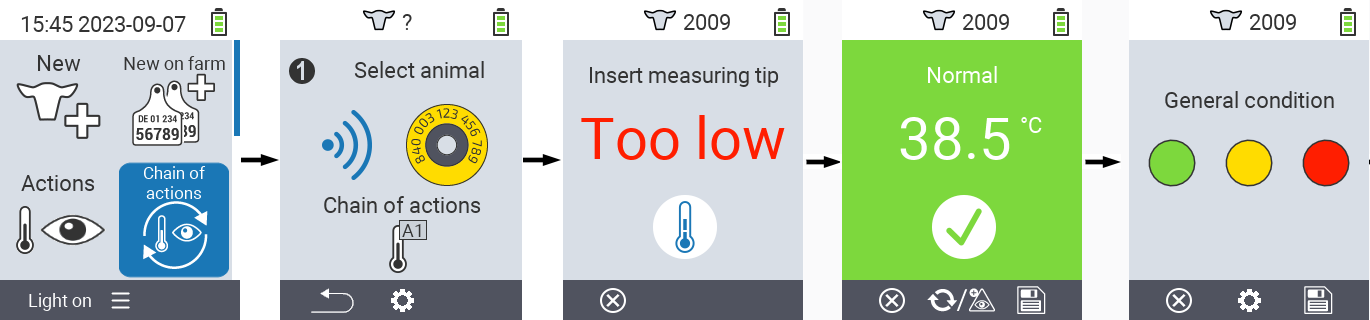
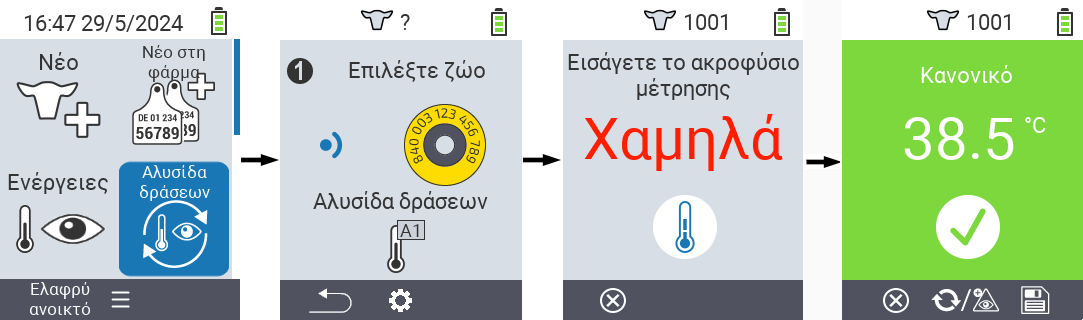
Chain of actions: localization of images and strings used in firmware

diff --git a/content/el/docs/chain-of-actions/_index.md b/content/el/docs/chain-of-actions/_index.md
@@ -13,13 +13,13 @@ translationKey: action-chain
 ---
 ## Αλυσίδα ενεργειών {#chain-of-actions}
 
-Η αλυσίδα ενεργειών σας επιτρέπει να εκτελέσετε αυτόματα πολλές ενέργειες για ένα ζώο, η μία μετά την άλλη. Για παράδειγμα, μπορείτε να επιλέξετε τις ενέργειες `Μέτρηση θερμοκρασίας` και `Αξιολόγηση`. Εάν στη συνέχεια εκτελέσετε την αλυσίδα ενεργειών, μπορείτε πρώτα να πάρετε τη θερμοκρασία του ζώου σας και αμέσως μετά να καταγράψετε την αξιολόγηση.
+Η αλυσίδα ενεργειών σας επιτρέπει να εκτελέσετε αυτόματα πολλές ενέργειες για ένα ζώο, η μία μετά την άλλη. Για παράδειγμα, μπορείτε να επιλέξετε τις ενέργειες `{{<T "Temperature" >}}` και `{{<T "Rating" >}}`. Εάν στη συνέχεια εκτελέσετε την αλυσίδα ενεργειών, μπορείτε πρώτα να πάρετε τη θερμοκρασία του ζώου σας και αμέσως μετά να καταγράψετε την αξιολόγηση.
 
 ### Χρήση αλυσίδας ενεργειών {#use-chain-of-actions}
 
-1. Στην κύρια οθόνη της συσκευής σας VitalControl, επιλέξτε το στοιχείο μενού &nbsp;<img src="/icons/actions/action-chain.svg" width="35" align="bottom" alt="Αλυσίδα ενεργειών" />&nbsp; `Αλυσίδα ενεργειών` και πατήστε το κουμπί `OK`.
+1. Στην κύρια οθόνη της συσκευής σας VitalControl, επιλέξτε το στοιχείο μενού &nbsp;<img src="/icons/actions/action-chain.svg" width="35" align="bottom" alt="Αλυσίδα ενεργειών" />&nbsp; `{{<T "ActionChain" >}}` και πατήστε το κουμπί `{{<T "Ok" >}}`.
 
-2. Είτε σαρώστε ένα ζώο χρησιμοποιώντας τον ανιχνευτή ή επιβεβαιώστε με `OK` και χρησιμοποιήστε τα πλήκτρα βέλους △ ▽ ◁ ▷ για να εισάγετε το επιθυμητό αναγνωριστικό του ζώου.
+2. Είτε σαρώστε ένα ζώο χρησιμοποιώντας τον ανιχνευτή ή επιβεβαιώστε με `{{<T "Ok" >}}` και χρησιμοποιήστε τα πλήκτρα βέλους △ ▽ ◁ ▷ για να εισάγετε το επιθυμητό αναγνωριστικό του ζώου.
 
 3. Η αλυσίδα ενεργειών τώρα εκτελείται. Μόλις όλες οι ενέργειες στην αλυσίδα ενεργειών έχουν πραγματοποιηθεί, το επόμενο ζώο μπορεί να επιλεγεί απευθείας.
 
@@ -35,13 +35,13 @@ translationKey: action-chain
 
 ### Ρύθμιση αλυσίδας ενεργειών {#set-chain-of-actions}
 
-1. Στην κύρια οθόνη της συσκευής σας VitalControl, επιλέξτε το στοιχείο μενού &nbsp;<img src="/icons/actions/action-chain.svg" width="35" align="bottom" alt="Αλυσίδα ενεργειών" />&nbsp; `Αλυσίδα Ενεργειών` και πατήστε το κουμπί `OK`.
+1. Στην κύρια οθόνη της συσκευής σας VitalControl, επιλέξτε το στοιχείο μενού &nbsp;<img src="/icons/actions/action-chain.svg" width="35" align="bottom" alt="Αλυσίδα ενεργειών" />&nbsp; `{{<T "ActionChain" >}}` και πατήστε το κουμπί `{{<T "Ok" >}}`.
 
-2. Χρησιμοποιήστε το κουμπί `F2` &nbsp;<img src="/icons/gear.svg" width="25" align="bottom" alt="Αλυσίδα ενεργειών" />&nbsp; (`ρυθμίσεις`).
+2. Χρησιμοποιήστε το κουμπί `F2` &nbsp;<img src="/icons/gear.svg" width="25" align="bottom" alt="Αλυσίδα ενεργειών" />&nbsp; (`{{<T "Settings" >}}`).
 
 3. Ένας επικαλυπτόμενος οθόνη εμφανίζεται. Χρησιμοποιήστε τα πλήκτρα βέλους △ ▽ για να επιλέξετε ανάμεσα στις ενέργειες 1 - 4 (μπορείτε να εκτελέσετε έως τέσσερις ενέργειες σε σειρά). Χρησιμοποιήστε τα πλήκτρα βέλους ◁ ▷ για να επιλέξετε την επιθυμητή ενέργεια για την αντίστοιχη ενέργεια. Αποθηκεύστε τις ρυθμίσεις με το κλειδί `F1` &nbsp;<img src="/icons/footer/save_exit.svg" width="65" align="bottom" alt="Αποθήκευση και επιστροφή" />&nbsp;.
 
-4. Εάν θέλετε να επαναφέρετε ολόκληρη την αλυσίδα ενεργειών, επιλέξτε την επιλογή `Reset chain of actions` στο υπομενού χρησιμοποιώντας τα βελάκια △ ▽ και επιβεβαιώστε με `OK`.
+4. Εάν θέλετε να επαναφέρετε ολόκληρη την αλυσίδα ενεργειών, επιλέξτε την επιλογή `{{<T "ResetActionChain" >}}` στο υπομενού χρησιμοποιώντας τα βελάκια △ ▽ και επιβεβαιώστε με `{{<T "Ok" >}}`.
 
     ![VitalControl: Menu chain of actions](images/setchainofactions.png "Set chain of actions")
 

diff --git a/content/bg/docs/chain-of-actions/_index.md b/content/bg/docs/chain-of-actions/_index.md
@@ -13,13 +13,13 @@ translationKey: action-chain
 ---
 ## Поредица от действия {#chain-of-actions}
 
-Поредицата от действия ви позволява автоматично да извършите няколко действия за едно животно едно след друго. Например, можете да изберете действията `Измерване на температурата` и `Оценка`. Ако след това изпълните поредицата от действия, първо можете да вземете температурата на животното и веднага след това да запишете оценката.
+Поредицата от действия ви позволява автоматично да извършите няколко действия за едно животно едно след друго. Например, можете да изберете действията `{{<T "Temperature" >}}` и `{{<T "Rating" >}}`. Ако след това изпълните поредицата от действия, първо можете да вземете температурата на животното и веднага след това да запишете оценката.
 
 ### Използване на поредица от действия {#use-chain-of-actions}
 
-1. На главния екран на вашето устройство VitalControl изберете менюто &nbsp;<img src="/icons/actions/action-chain.svg" width="35" align="bottom" alt="Поредица от действия" />&nbsp; `Поредица от действия` и натиснете бутона `OK`.
+1. На главния екран на вашето устройство VitalControl изберете менюто &nbsp;<img src="/icons/actions/action-chain.svg" width="35" align="bottom" alt="Поредица от действия" />&nbsp; `{{<T "ActionChain" >}}` и натиснете бутона `{{<T "Ok" >}}`.
 
-2. Сканирайте животно с помощта на транспондера или потвърдете с `OK` и използвайте стрелките △ ▽ ◁ ▷ за въвеждане на желания идентификационен номер на животното.
+2. Сканирайте животно с помощта на транспондера или потвърдете с `{{<T "Ok" >}}` и използвайте стрелките △ ▽ ◁ ▷ за въвеждане на желания идентификационен номер на животното.
 
 3. Поредицата от действия се изпълнява. Щом всички действия в поредицата от действия бъдат извършени, може директно да изберете следващото животно.
 
@@ -35,13 +35,13 @@ translationKey: action-chain
 
 ### Настройка на поредица от действия {#set-chain-of-actions}
 
-1. На главния екран на вашето устройство VitalControl изберете менюто &nbsp;<img src="/icons/actions/action-chain.svg" width="35" align="bottom" alt="Поредица от действия" />&nbsp; `Поредица от действия` и натиснете бутона `OK`.
+1. На главния екран на вашето устройство VitalControl изберете менюто &nbsp;<img src="/icons/actions/action-chain.svg" width="35" align="bottom" alt="Поредица от действия" />&nbsp; `{{<T "ActionChain" >}}` и натиснете бутона `{{<T "Ok" >}}`.
 
-2. Използвайте бутона `F2` &nbsp;<img src="/icons/gear.svg" width="25" align="bottom" alt="Настройки на поредицата" />&nbsp; (`настройки`).
+2. Използвайте бутона `F2` &nbsp;<img src="/icons/gear.svg" width="25" align="bottom" alt="Настройки на поредицата" />&nbsp; (`{{<T "Settings" >}}`).
 
 3. Появява се екран за настройки. Използвайте стрелките △ ▽ за избор между изброените действия 1 - 4 (можете да изпълните до четири действия последователно). Използвайте стрелките ◁ ▷ за избор на желаното действие за съответното действие. Запазете настройките с бутона `F1` &nbsp;<img src="/icons/footer/save_exit.svg" width="65" align="bottom" alt="Запази и излез" />&nbsp;.
 
-4. Ако искате да рестартирате цялата верига от действия, изберете опцията `Reset chain of actions` в подменюто, като използвате стрелките △ ▽ и потвърдете с `OK`.
+4. Ако искате да рестартирате цялата верига от действия, изберете опцията `{{<T "ResetActionChain" >}}` в подменюто, като използвате стрелките △ ▽ и потвърдете с `{{<T "Ok" >}}`.
 
     ![VitalControl: Menu chain of actions](images/setchainofactions.png "Set chain of actions")
 

diff --git a/content/ru/docs/chain-of-actions/_index.md b/content/ru/docs/chain-of-actions/_index.md
@@ -13,13 +13,13 @@ translationKey: action-chain
 ---
 ## Цепочка действий {#chain-of-actions}
 
-Цепочка действий позволяет автоматически выполнять несколько действий с животным одно за другим. Например, вы можете выбрать действия `Измерение температуры` и `Оценка`. Если затем выполнить цепочку действий, вы сначала можете измерить температуру животного, а сразу после этого записать оценку.
+Цепочка действий позволяет автоматически выполнять несколько действий с животным одно за другим. Например, вы можете выбрать действия `{{<T "Temperature" >}}` и `{{<T "Rating" >}}`. Если затем выполнить цепочку действий, вы сначала можете измерить температуру животного, а сразу после этого записать оценку.
  
 ### Использование цепочки действий {#use-chain-of-actions}
 
-1. На главном экране вашего устройства VitalControl выберите пункт меню &nbsp;<img src="/icons/actions/action-chain.svg" width="35" align="bottom" alt="Цепочка действий" />&nbsp; `Цепочка действий` и нажмите кнопку `OK`.
+1. На главном экране вашего устройства VitalControl выберите пункт меню &nbsp;<img src="/icons/actions/action-chain.svg" width="35" align="bottom" alt="Цепочка действий" />&nbsp; `{{<T "ActionChain" >}}` и нажмите кнопку `{{<T "Ok" >}}`.
 
-2. Либо сканируйте животное с помощью транспондера, либо подтвердите нажатием `OK` и используйте стрелки △ ▽ ◁ ▷ для ввода желаемого идентификатора животного.
+2. Либо сканируйте животное с помощью транспондера, либо подтвердите нажатием `{{<T "Ok" >}}` и используйте стрелки △ ▽ ◁ ▷ для ввода желаемого идентификатора животного.
 
 3. Цепочка действий теперь выполняется. Как только все действия в цепочке действий будут выполнены, можно сразу выбрать следующее животное.
 
@@ -35,13 +35,13 @@ translationKey: action-chain
 
 ### Настройка цепочки действий {#set-chain-of-actions}
 
-1. На главном экране вашего устройства VitalControl выберите пункт меню &nbsp;<img src="/icons/actions/action-chain.svg" width="35" align="bottom" alt="Цепочка действий" />&nbsp; `Цепочка действий` и нажмите кнопку `OK`.
+1. На главном экране вашего устройства VitalControl выберите пункт меню &nbsp;<img src="/icons/actions/action-chain.svg" width="35" align="bottom" alt="Цепочка действий" />&nbsp; `{{<T "ActionChain" >}}` и нажмите кнопку `{{<T "Ok" >}}`.
 
-2. Используйте кнопку `F2` &nbsp;<img src="/icons/gear.svg" width="25" align="bottom" alt="Цепочка действий" />&nbsp; (`настройки`).
+2. Используйте кнопку `F2` &nbsp;<img src="/icons/gear.svg" width="25" align="bottom" alt="Цепочка действий" />&nbsp; (`{{<T "Settings" >}}`).
 
 3. Появится всплывающее окно. Используйте стрелки △ ▽ для выбора между перечисленными действиями 1 - 4 (вы можете выполнить до четырех действий подряд). Используйте стрелки ◁ ▷ для выбора желаемого действия для соответствующего действия. Сохраните настройки с помощью клавиши `F1` &nbsp;<img src="/icons/footer/save_exit.svg" width="65" align="bottom" alt="Сохранить и вернуться" />&nbsp;.
 
-4. Если вы хотите сбросить всю цепочку действий, выберите опцию `Сбросить цепочку действий` в подменю с помощью стрелок △ ▽ и подтвердите нажатием `OK`.
+4. Если вы хотите сбросить всю цепочку действий, выберите опцию `{{<T "ResetActionChain" >}}` в подменю с помощью стрелок △ ▽ и подтвердите нажатием `{{<T "Ok" >}}`.
 
     ![VitalControl: Меню цепочки действий](images/setchainofactions.png "Настройка цепочки действий")
 

diff --git a/content/fr/docs/chain-of-actions/_index.md b/content/fr/docs/chain-of-actions/_index.md
@@ -13,13 +13,13 @@ translationKey: action-chain
 ---
 ## Chaîne d'actions {#chain-of-actions}
 
-La chaîne d'actions vous permet d'exécuter automatiquement plusieurs actions pour un animal l'une après l'autre. Par exemple, vous pouvez sélectionner les actions `Mesurer la température` et `Évaluation`. Si vous exécutez ensuite la chaîne d'actions, vous pouvez d'abord prendre la température de votre animal et enregistrer l'évaluation immédiatement après.
+La chaîne d'actions vous permet d'exécuter automatiquement plusieurs actions pour un animal l'une après l'autre. Par exemple, vous pouvez sélectionner les actions `{{<T "Temperature" >}}` et `{{<T "Rating" >}}`. Si vous exécutez ensuite la chaîne d'actions, vous pouvez d'abord prendre la température de votre animal et enregistrer l'évaluation immédiatement après.
 
 ### Utiliser la chaîne d'actions {#use-chain-of-actions}
 
-1. Sur l'écran principal de votre appareil VitalControl, sélectionnez l'élément de menu &nbsp;<img src="/icons/actions/action-chain.svg" width="35" align="bottom" alt="Chaîne d'actions" />&nbsp; `Chaîne d'actions` et appuyez sur le bouton `OK`.
+1. Sur l'écran principal de votre appareil VitalControl, sélectionnez l'élément de menu &nbsp;<img src="/icons/actions/action-chain.svg" width="35" align="bottom" alt="Chaîne d'actions" />&nbsp; `{{<T "ActionChain" >}}` et appuyez sur le bouton `{{<T "Ok" >}}`.
 
-2. Soit scannez un animal à l'aide du transpondeur, soit confirmez avec `OK` et utilisez les touches fléchées △ ▽ ◁ ▷ pour entrer l'ID de l'animal souhaité.
+2. Soit scannez un animal à l'aide du transpondeur, soit confirmez avec `{{<T "Ok" >}}` et utilisez les touches fléchées △ ▽ ◁ ▷ pour entrer l'ID de l'animal souhaité.
 
 3. La chaîne d'actions est maintenant exécutée. Dès que toutes les actions dans la chaîne d'actions ont été effectuées, le prochain animal peut être sélectionné directement.
 
@@ -35,13 +35,13 @@ La chaîne d'actions vous permet d'exécuter automatiquement plusieurs actions p
 
 ### Configurer la chaîne d'actions {#set-chain-of-actions}
 
-1. Sur l'écran principal de votre appareil VitalControl, sélectionnez l'élément de menu &nbsp;<img src="/icons/actions/action-chain.svg" width="35" align="bottom" alt="Chaîne d'actions" />&nbsp; `Chaîne d'actions` et appuyez sur le bouton `OK`.
+1. Sur l'écran principal de votre appareil VitalControl, sélectionnez l'élément de menu &nbsp;<img src="/icons/actions/action-chain.svg" width="35" align="bottom" alt="Chaîne d'actions" />&nbsp; `{{<T "ActionChain" >}}` et appuyez sur le bouton `{{<T "Ok" >}}`.
 
-2. Utilisez le bouton `F2` &nbsp;<img src="/icons/gear.svg" width="25" align="bottom" alt="Chaîne d'actions" />&nbsp; (`paramètres`).
+2. Utilisez le bouton `F2` &nbsp;<img src="/icons/gear.svg" width="25" align="bottom" alt="Chaîne d'actions" />&nbsp; (`{{<T "Settings" >}}`).
 
 3. Un écran superposé apparaît. Utilisez les touches fléchées △ ▽ pour choisir entre les actions listées 1 - 4 (vous pouvez effectuer jusqu'à quatre actions de suite). Utilisez les touches fléchées ◁ ▷ pour sélectionner l'action désirée pour l'action respective. Sauvegardez les paramètres avec la touche `F1` &nbsp;<img src="/icons/footer/save_exit.svg" width="65" align="bottom" alt="Sauvegarder et retourner" />&nbsp;.
 
-4. Si vous souhaitez réinitialiser la chaîne d'actions complète, sélectionnez l'option `Réinitialiser la chaîne d'actions` dans le sous-menu en utilisant les touches fléchées △ ▽ et confirmez avec `OK`.
+4. Si vous souhaitez réinitialiser la chaîne d'actions complète, sélectionnez l'option `{{<T "ResetActionChain" >}}` dans le sous-menu en utilisant les touches fléchées △ ▽ et confirmez avec `{{<T "Ok" >}}`.
 
     ![VitalControl: Menu chaîne d'actions](images/setchainofactions.png "Configurer la chaîne d'actions")
 

diff --git a/content/es/docs/chain-of-actions/_index.md b/content/es/docs/chain-of-actions/_index.md
@@ -13,13 +13,13 @@ translationKey: action-chain
 ---
 ## Cadena de acciones {#chain-of-actions}
  
-La cadena de acciones te permite llevar a cabo automáticamente varias acciones para un animal una tras otra. Por ejemplo, puedes seleccionar las acciones `Temperatura` y `Evaluación`. Si luego realizas la cadena de acciones, puedes tomar primero la temperatura de tu animal y registrar la calificación inmediatamente después.
+La cadena de acciones te permite llevar a cabo automáticamente varias acciones para un animal una tras otra. Por ejemplo, puedes seleccionar las acciones `{{<T "Temperature" >}}` y `{{<T "Rating" >}}`. Si luego realizas la cadena de acciones, puedes tomar primero la temperatura de tu animal y registrar la calificación inmediatamente después.
 
 ### Usar cadena de acciones {#use-chain-of-actions}
 
-1. En la pantalla principal de tu dispositivo VitalControl, selecciona el ítem del menú &nbsp;<img src="/icons/actions/action-chain.svg" width="35" align="bottom" alt="Cadena de acciones" />&nbsp; `Cadena de acciones` y presiona el botón `OK`.
+1. En la pantalla principal de tu dispositivo VitalControl, selecciona el ítem del menú &nbsp;<img src="/icons/actions/action-chain.svg" width="35" align="bottom" alt="Cadena de acciones" />&nbsp; `{{<T "ActionChain" >}}` y presiona el botón `{{<T "Ok" >}}`.
 
-2. Escanea un animal usando el transpondedor o confirma con `OK` y usa las teclas de flecha △ ▽ ◁ ▷ para ingresar la ID del animal deseado.
+2. Escanea un animal usando el transpondedor o confirma con `{{<T "Ok" >}}` y usa las teclas de flecha △ ▽ ◁ ▷ para ingresar la ID del animal deseado.
 
 3. La cadena de acciones ahora se ejecuta. Tan pronto como todas las acciones en la cadena de acciones se hayan llevado a cabo, se puede seleccionar directamente el siguiente animal.
 
@@ -35,13 +35,13 @@ La cadena de acciones te permite llevar a cabo automáticamente varias acciones 
 
 ### Configurar cadena de acciones {#set-chain-of-actions}
 
-1. En la pantalla principal de tu dispositivo VitalControl, selecciona el ítem del menú &nbsp;<img src="/icons/actions/action-chain.svg" width="35" align="bottom" alt="Cadena de acciones" />&nbsp; `Cadena de Acciones` y presiona el botón `OK`.
+1. En la pantalla principal de tu dispositivo VitalControl, selecciona el ítem del menú &nbsp;<img src="/icons/actions/action-chain.svg" width="35" align="bottom" alt="Cadena de acciones" />&nbsp; `{{<T "ActionChain" >}}` y presiona el botón `{{<T "Ok" >}}`.
 
-2. Usa el botón `F2` &nbsp;<img src="/icons/gear.svg" width="25" align="bottom" alt="Cadena de acciones" />&nbsp; (`configuraciones`).
+2. Usa el botón `F2` &nbsp;<img src="/icons/gear.svg" width="25" align="bottom" alt="Cadena de acciones" />&nbsp; (`{{<T "Settings" >}}`).
 
 3. Aparece una pantalla superpuesta. Usa las teclas de flecha △ ▽ para elegir entre las acciones listadas del 1 al 4 (puedes realizar hasta cuatro acciones en fila). Usa las teclas de flecha ◁ ▷ para seleccionar la acción deseada para la respectiva acción. Guarda la configuración con la tecla `F1` &nbsp;<img src="/icons/footer/save_exit.svg" width="65" align="bottom" alt="Guardar y volver" />&nbsp;.
 
-4. Si desea restablecer toda la cadena de acciones, seleccione la opción `Reiniciar cadena de acciones` en el submenú utilizando las teclas de flecha △ ▽ y confirme con `OK`.
+4. Si desea restablecer toda la cadena de acciones, seleccione la opción `{{<T "ResetActionChain" >}}` en el submenú utilizando las teclas de flecha △ ▽ y confirme con `{{<T "Ok" >}}`.
 
     ![VitalControl: Menú cadena de acciones](images/setchainofactions.png "Establecer cadena de acciones")
 

diff --git a/content/hu/docs/chain-of-actions/_index.md b/content/hu/docs/chain-of-actions/_index.md
@@ -13,13 +13,13 @@ translationKey: action-chain
 --- 
 ## Akciólánc {#chain-of-actions}
 
-Az akciólánc lehetővé teszi, hogy automatikusan több akciót hajts végre egy állaton egymás után. Például kiválaszthatod a `Hőmérséklet mérése` és `Értékelés` akciókat. Ha ezután végrehajtod az akcióláncot, először megmérheted az állat hőmérsékletét, majd azonnal rögzítheted az értékelést.
+Az akciólánc lehetővé teszi, hogy automatikusan több akciót hajts végre egy állaton egymás után. Például kiválaszthatod a `{{<T "Temperature" >}}` és `{{<T "Rating" >}}` akciókat. Ha ezután végrehajtod az akcióláncot, először megmérheted az állat hőmérsékletét, majd azonnal rögzítheted az értékelést.
 
 ### Akciólánc használata {#use-chain-of-actions}
 
-1. A VitalControl készülék főképernyőjén válaszd ki a &nbsp;<img src="/icons/actions/action-chain.svg" width="35" align="bottom" alt="Akciólánc" />&nbsp; `Akciólánc` menüpontot és nyomd meg az `OK` gombot.
+1. A VitalControl készülék főképernyőjén válaszd ki a &nbsp;<img src="/icons/actions/action-chain.svg" width="35" align="bottom" alt="Akciólánc" />&nbsp; `{{<T "ActionChain" >}}` menüpontot és nyomd meg az `{{<T "Ok" >}}` gombot.
 
-2. Vagy olvasd be az állatot a transzponder segítségével, vagy erősítsd meg az `OK` gombbal, és használd a △ ▽ ◁ ▷ nyílgombokat a kívánt állat azonosítójának megadásához.
+2. Vagy olvasd be az állatot a transzponder segítségével, vagy erősítsd meg az `{{<T "Ok" >}}` gombbal, és használd a △ ▽ ◁ ▷ nyílgombokat a kívánt állat azonosítójának megadásához.
 
 3. Az akciólánc most végrehajtásra kerül. Amint az akciólánc összes akciója végrehajtásra került, közvetlenül kiválasztható a következő állat.
 
@@ -35,14 +35,14 @@ Az akciólánc lehetővé teszi, hogy automatikusan több akciót hajts végre e
 
 ### Akciólánc beállítása {#set-chain-of-actions}
 
-1. A VitalControl készülék főképernyőjén válaszd ki a &nbsp;<img src="/icons/actions/action-chain.svg" width="35" align="bottom" alt="Akciólánc" />&nbsp; `Akciólánc` menüpontot és nyomd meg az `OK` gombot.
+1. A VitalControl készülék főképernyőjén válaszd ki a &nbsp;<img src="/icons/actions/action-chain.svg" width="35" align="bottom" alt="Akciólánc" />&nbsp; `{{<T "ActionChain" >}}` menüpontot és nyomd meg az `{{<T "Ok" >}}` gombot.
 
-2. Használd az `F2` gombot &nbsp;<img src="/icons/gear.svg" width="25" align="bottom" alt="Aktionskette" />&nbsp; (`beállítások`).
+2. Használd az `F2` gombot &nbsp;<img src="/icons/gear.svg" width="25" align="bottom" alt="Aktionskette" />&nbsp; (`{{<T "Settings" >}}`).
 
 3. Egy átfedő képernyő jelenik meg. Használd a △ ▽ nyílgombokat az 1 - 4 listázott akció közötti választáshoz (egymás után legfeljebb négy akciót hajthatsz végre). Használd a ◁ ▷ nyílgombokat a kívánt akció kiválasztásához az adott akcióhoz. Mentsd el a beállításokat az `F1` gombbal &nbsp;<img src="/icons/footer/save_exit.svg" width="65" align="bottom" alt="Mentés és visszatérés" />&nbsp;.
 
 
-4. Ha az egész műveletsort vissza szeretné állítani, válassza a `Műveletsor visszaállítása` opciót az almenüben a △ ▽ nyílbillentyűkkel, és erősítse meg az `OK` gombbal.
+4. Ha az egész műveletsort vissza szeretné állítani, válassza a `{{<T "ResetActionChain" >}}` opciót az almenüben a △ ▽ nyílbillentyűkkel, és erősítse meg az `{{<T "Ok" >}}` gombbal.
 
     ![VitalControl: Műveletsor menü](images/setchainofactions.png "Műveletsor beállítása")
 

diff --git a/content/it/docs/chain-of-actions/_index.md b/content/it/docs/chain-of-actions/_index.md
@@ -13,13 +13,13 @@ translationKey: action-chain
 ---
 ## Catena di azioni {#chain-of-actions}
 
-La catena di azioni ti permette di eseguire automaticamente diverse azioni per un animale una dopo l'altra. Ad esempio, puoi selezionare le azioni `Misura temperatura` e `Valutazione`. Se poi esegui la catena di azioni, puoi prima misurare la temperatura del tuo animale e registrare immediatamente la valutazione subito dopo.
+La catena di azioni ti permette di eseguire automaticamente diverse azioni per un animale una dopo l'altra. Ad esempio, puoi selezionare le azioni `{{<T "Temperature" >}}` e `{{<T "Rating" >}}`. Se poi esegui la catena di azioni, puoi prima misurare la temperatura del tuo animale e registrare immediatamente la valutazione subito dopo.
 
 ### Utilizzare la catena di azioni {#use-chain-of-actions}
 
-1. Nella schermata principale del tuo dispositivo VitalControl, seleziona la voce di menu &nbsp;<img src="/icons/actions/action-chain.svg" width="35" align="bottom" alt="Catena di azioni" />&nbsp; `Catena di azioni` e premi il pulsante `OK`.
+1. Nella schermata principale del tuo dispositivo VitalControl, seleziona la voce di menu &nbsp;<img src="/icons/actions/action-chain.svg" width="35" align="bottom" alt="Catena di azioni" />&nbsp; `{{<T "ActionChain" >}}` e premi il pulsante `{{<T "Ok" >}}`.
 
-2. Scansiona un animale utilizzando il transponder oppure conferma con `OK` e usa i tasti freccia △ ▽ ◁ ▷ per inserire l'ID dell'animale desiderato.
+2. Scansiona un animale utilizzando il transponder oppure conferma con `{{<T "Ok" >}}` e usa i tasti freccia △ ▽ ◁ ▷ per inserire l'ID dell'animale desiderato.
 
 3. La catena di azioni viene ora eseguita. Non appena tutte le azioni nella catena di azioni sono state eseguite, è possibile selezionare direttamente il prossimo animale.
 
@@ -35,14 +35,14 @@ La catena di azioni ti permette di eseguire automaticamente diverse azioni per u
 
 ### Configurare la catena di azioni {#set-chain-of-actions}
 
-1. Nella schermata principale del tuo dispositivo VitalControl, seleziona la voce di menu &nbsp;<img src="/icons/actions/action-chain.svg" width="35" align="bottom" alt="Catena di azioni" />&nbsp; `Catena di azioni` e premi il pulsante `OK`.
+1. Nella schermata principale del tuo dispositivo VitalControl, seleziona la voce di menu &nbsp;<img src="/icons/actions/action-chain.svg" width="35" align="bottom" alt="Catena di azioni" />&nbsp; `{{<T "ActionChain" >}}` e premi il pulsante `{{<T "Ok" >}}`.
 
-2. Usa il pulsante `F2` &nbsp;<img src="/icons/gear.svg" width="25" align="bottom" alt="Aktionskette" />&nbsp; (`impostazioni`).
+2. Usa il pulsante `F2` &nbsp;<img src="/icons/gear.svg" width="25" align="bottom" alt="Aktionskette" />&nbsp; (`{{<T "Settings" >}}`).
 
 3. Viene visualizzata una schermata sovrapposta. Usa i tasti freccia △ ▽ per scegliere tra le azioni elencate 1 - 4 (puoi eseguire fino a quattro azioni di seguito). Usa i tasti freccia ◁ ▷ per selezionare l'azione desiderata per ciascuna azione. Salva le impostazioni con il tasto `F1` &nbsp;<img src="/icons/footer/save_exit.svg" width="65" align="bottom" alt="Salva e torna indietro" />&nbsp;.
 
 
-4. Se desideri resettare l'intera catena di azioni, seleziona l'opzione `Reset chain of actions` nel sottomenu utilizzando i tasti freccia △ ▽ e conferma con `OK`.
+4. Se desideri resettare l'intera catena di azioni, seleziona l'opzione `{{<T "ResetActionChain" >}}` nel sottomenu utilizzando i tasti freccia △ ▽ e conferma con `{{<T "Ok" >}}`.
 
     ![VitalControl: Menu catena di azioni](images/setchainofactions.png "Imposta catena di azioni")
 

diff --git a/content/en/docs/chain-of-actions/_index.md b/content/en/docs/chain-of-actions/_index.md
@@ -13,13 +13,13 @@ translationKey: action-chain
 ---
 ## Chain of actions {#chain-of-actions}
 
-The action chain allows you to automatically carry out several actions for an animal one after the other. For example, you can select the actions `Measure temperature` and `Rating`. If you then carry out the chain of actions, you can take your animal's temperature first and record the rating immediately afterwards.
+The action chain allows you to automatically carry out several actions for an animal one after the other. For example, you can select the actions `{{<T "Temperature" >}}` and `{{<T "Rating" >}}`. If you then carry out the chain of actions, you can take your animal's temperature first and record the rating immediately afterwards.
 
 ### Use chain of actions {#use-chain-of-actions}
 
-1. On the main screen of your VitalControl device, select the menu item &nbsp;<img src="/icons/actions/action-chain.svg" width="35" align="bottom" alt="Chain of actions" />&nbsp; `Chain of actions` and press the `OK` button.
+1. On the main screen of your VitalControl device, select the menu item &nbsp;<img src="/icons/actions/action-chain.svg" width="35" align="bottom" alt="Chain of actions" />&nbsp; `{{<T "ActionChain" >}}` and press the `{{<T "Ok" >}}` button.
 
-2. Either scan an animal using the transponder or confirm with `OK` and use the arrow keys △ ▽ ◁ ▷ to enter the desired animal ID.
+2. Either scan an animal using the transponder or confirm with `{{<T "Ok" >}}` and use the arrow keys △ ▽ ◁ ▷ to enter the desired animal ID.
 
 3. The chain of actions is now executed. As soon as all actions in the action chain have been carried out, the next animal can be selected directly.
 
@@ -35,13 +35,13 @@ The action chain allows you to automatically carry out several actions for an an
 
 ### Set chain of actions {#set-chain-of-actions}
 
-1. On the main screen of your VitalControl device, select the menu item &nbsp;<img src="/icons/actions/action-chain.svg" width="35" align="bottom" alt="Chain of actions" />&nbsp; `Chain of Actions` and press the `OK` button.
+1. On the main screen of your VitalControl device, select the menu item &nbsp;<img src="/icons/actions/action-chain.svg" width="35" align="bottom" alt="Chain of actions" />&nbsp; `{{<T "ActionChain" >}}` and press the `{{<T "Ok" >}}` button.
 
-2. Use the button `F2` &nbsp;<img src="/icons/gear.svg" width="25" align="bottom" alt="Aktionskette" />&nbsp; (`settings`).
+2. Use the button `F2` &nbsp;<img src="/icons/gear.svg" width="25" align="bottom" alt="Aktionskette" />&nbsp; (`{{<T "Settings" >}}`).
 
 3. An overlay screen pops up. Use the arrow keys △ ▽ to choose between the listed actions 1 - 4 (you can perform up to four actions in a row). Use the arrow keys ◁ ▷ to select the desired action for the respective action. Save the settings with the `F1` key &nbsp;<img src="/icons/footer/save_exit.svg" width="65" align="bottom" alt="Save and return" />&nbsp;.
 
-4. If you want to reset the entire action chain, select the option `Reset chain of actions` in the submenu using the arrow keys △ ▽ and confirm with `OK`.
+4. If you want to reset the entire action chain, select the option `{{<T "ResetActionChain" >}}` in the submenu using the arrow keys △ ▽ and confirm with `{{<T "Ok" >}}`.
 
     ![VitalControl: Menu chain of actions](images/setchainofactions.png "Set chain of actions")
 

diff --git a/content/cs/docs/chain-of-actions/_index.md b/content/cs/docs/chain-of-actions/_index.md
@@ -13,13 +13,13 @@ translationKey: action-chain
 ---
 ## Řetězec akcí {#chain-of-actions}
 
-Řetězec akcí vám umožňuje automaticky provádět několik akcí pro zvíře jednu po druhé. Například můžete vybrat akce `Měření teploty` a `Hodnocení`. Pokud poté provedete řetězec akcí, můžete nejprve změřit teplotu svého zvířete a ihned poté zaznamenat hodnocení.
+Řetězec akcí vám umožňuje automaticky provádět několik akcí pro zvíře jednu po druhé. Například můžete vybrat akce `{{<T "Temperature" >}}` a `{{<T "Rating" >}}`. Pokud poté provedete řetězec akcí, můžete nejprve změřit teplotu svého zvířete a ihned poté zaznamenat hodnocení.
 
 ### Použití řetězce akcí {#use-chain-of-actions}
 
-1. Na hlavní obrazovce vašeho zařízení VitalControl vyberte položku menu &nbsp;<img src="/icons/actions/action-chain.svg" width="35" align="bottom" alt="Řetězec akcí" />&nbsp; `Řetězec akcí` a stiskněte tlačítko `OK`.
+1. Na hlavní obrazovce vašeho zařízení VitalControl vyberte položku menu &nbsp;<img src="/icons/actions/action-chain.svg" width="35" align="bottom" alt="Řetězec akcí" />&nbsp; `{{<T "ActionChain" >}}` a stiskněte tlačítko `{{<T "Ok" >}}`.
 
-2. Buď naskenujte zvíře pomocí transpondéru, nebo potvrďte tlačítkem `OK` a pomocí šipek △ ▽ ◁ ▷ zadejte požadované ID zvířete.
+2. Buď naskenujte zvíře pomocí transpondéru, nebo potvrďte tlačítkem `{{<T "Ok" >}}` a pomocí šipek △ ▽ ◁ ▷ zadejte požadované ID zvířete.
 
 3. Nyní je řetězec akcí proveden. Jakmile jsou všechny akce v řetězci akcí provedeny, lze přímo vybrat další zvíře.
 
@@ -35,14 +35,14 @@ translationKey: action-chain
 
 ### Nastavení řetězce akcí {#set-chain-of-actions}
 
-1. Na hlavní obrazovce vašeho zařízení VitalControl vyberte položku menu &nbsp;<img src="/icons/actions/action-chain.svg" width="35" align="bottom" alt="Řetězec akcí" />&nbsp; `Řetězec akcí` a stiskněte tlačítko `OK`.
+1. Na hlavní obrazovce vašeho zařízení VitalControl vyberte položku menu &nbsp;<img src="/icons/actions/action-chain.svg" width="35" align="bottom" alt="Řetězec akcí" />&nbsp; `{{<T "ActionChain" >}}` a stiskněte tlačítko `{{<T "Ok" >}}`.
 
-2. Použijte tlačítko `F2` &nbsp;<img src="/icons/gear.svg" width="25" align="bottom" alt="Aktionskette" />&nbsp; (`nastavení`).
+2. Použijte tlačítko `F2` &nbsp;<img src="/icons/gear.svg" width="25" align="bottom" alt="Aktionskette" />&nbsp; (`{{<T "Settings" >}}`).
 
 3. Objeví se překryvná obrazovka. Pomocí šipek △ ▽ vyberte mezi uvedenými akcemi 1 - 4 (můžete provést až čtyři akce za sebou). Pomocí šipek ◁ ▷ vyberte požadovanou akci pro příslušnou akci. Nastavení uložte tlačítkem `F1` &nbsp;<img src="/icons/footer/save_exit.svg" width="65" align="bottom" alt="Uložit a vrátit se" />&nbsp;.
 
 
-4. Pokud chcete resetovat celý řetězec akcí, vyberte možnost `Resetovat řetězec akcí` v podmenu pomocí šipek △ ▽ a potvrďte `OK`.
+4. Pokud chcete resetovat celý řetězec akcí, vyberte možnost `{{<T "ResetActionChain" >}}` v podmenu pomocí šipek △ ▽ a potvrďte `{{<T "Ok" >}}`.
 
     ![VitalControl: Menu řetězec akcí](images/setchainofactions.png "Nastavit řetězec akcí")
 

diff --git a/content/fi/docs/chain-of-actions/_index.md b/content/fi/docs/chain-of-actions/_index.md
@@ -13,13 +13,13 @@ translationKey: action-chain
 ---
 ## Toimintaketju {#chain-of-actions}
 
-Toimintaketju mahdollistaa useiden toimintojen automaattisen suorittamisen eläimelle peräkkäin. Voit esimerkiksi valita toiminnot `Mittaa lämpötila` ja `Arviointi`. Kun suoritat toimintaketjun, voit ensin mitata eläimesi lämpötilan ja kirjata arvioinnin välittömästi sen jälkeen.
+Toimintaketju mahdollistaa useiden toimintojen automaattisen suorittamisen eläimelle peräkkäin. Voit esimerkiksi valita toiminnot `{{<T "Temperature" >}}` ja `{{<T "Rating" >}}`. Kun suoritat toimintaketjun, voit ensin mitata eläimesi lämpötilan ja kirjata arvioinnin välittömästi sen jälkeen.
 
 ### Käytä toimintaketjua {#use-chain-of-actions}
 
-1. VitalControl-laitteesi päävalikossa valitse valikkokohta &nbsp;<img src="/icons/actions/action-chain.svg" width="35" align="bottom" alt="Toimintaketju" />&nbsp; `Toimintaketju` ja paina `OK`-nappia.
+1. VitalControl-laitteesi päävalikossa valitse valikkokohta &nbsp;<img src="/icons/actions/action-chain.svg" width="35" align="bottom" alt="Toimintaketju" />&nbsp; `{{<T "ActionChain" >}}` ja paina `{{<T "Ok" >}}`-nappia.
 
-2. Joko skannaa eläin transponderilla tai vahvista painamalla `OK` ja käytä nuolinäppäimiä △ ▽ ◁ ▷ syöttääksesi halutun eläin-ID:n.
+2. Joko skannaa eläin transponderilla tai vahvista painamalla `{{<T "Ok" >}}` ja käytä nuolinäppäimiä △ ▽ ◁ ▷ syöttääksesi halutun eläin-ID:n.
 
 3. Toimintaketju suoritetaan nyt. Kun kaikki toimintaketjun toiminnot on suoritettu, seuraava eläin voidaan valita suoraan.
 
@@ -35,13 +35,13 @@ Toimintaketju mahdollistaa useiden toimintojen automaattisen suorittamisen eläi
 
 ### Aseta toimintaketju {#set-chain-of-actions}
 
-1. VitalControl-laitteesi päävalikossa valitse valikkokohta &nbsp;<img src="/icons/actions/action-chain.svg" width="35" align="bottom" alt="Toimintaketju" />&nbsp; `Toimintaketju` ja paina `OK`-nappia.
+1. VitalControl-laitteesi päävalikossa valitse valikkokohta &nbsp;<img src="/icons/actions/action-chain.svg" width="35" align="bottom" alt="Toimintaketju" />&nbsp; `{{<T "ActionChain" >}}` ja paina `{{<T "Ok" >}}`-nappia.
 
-2. Käytä nappia `F2` &nbsp;<img src="/icons/gear.svg" width="25" align="bottom" alt="Toimintaketju" />&nbsp; (`asetukset`).
+2. Käytä nappia `F2` &nbsp;<img src="/icons/gear.svg" width="25" align="bottom" alt="Toimintaketju" />&nbsp; (`{{<T "Settings" >}}`).
 
 3. Ponnahdusikkuna avautuu. Käytä nuolinäppäimiä △ ▽ valitaksesi listatuista toiminnoista 1 - 4 (voit suorittaa jopa neljä toimintoa peräkkäin). Käytä nuolinäppäimiä ◁ ▷ valitaksesi halutun toiminnon kyseiselle toiminnolle. Tallenna asetukset `F1`-näppäimellä &nbsp;<img src="/icons/footer/save_exit.svg" width="65" align="bottom" alt="Tallenna ja palaa" />&nbsp;.
 
-4. Jos haluat nollata koko toimintoketjun, valitse alavalikosta vaihtoehto `Nollaa toimintoketju` käyttäen nuolinäppäimiä △ ▽ ja vahvista painamalla `OK`.
+4. Jos haluat nollata koko toimintoketjun, valitse alavalikosta vaihtoehto `{{<T "ResetActionChain" >}}` käyttäen nuolinäppäimiä △ ▽ ja vahvista painamalla `{{<T "Ok" >}}`.
 
     ![VitalControl: Toimintoketjun valikko](images/setchainofactions.png "Aseta toimintoketju")
 

diff --git a/content/et/docs/chain-of-actions/_index.md b/content/et/docs/chain-of-actions/_index.md
@@ -13,13 +13,13 @@ translationKey: action-chain
 ---
 ## Tegevuste ahel {#chain-of-actions}
 
-Tegevuste ahel võimaldab automaatselt sooritada mitmeid tegevusi looma jaoks üksteise järel. Näiteks võite valida tegevused `Temperatuuri mõõtmine` ja `Hinnang`. Kui te seejärel tegevuste ahelat rakendate, saate esmalt mõõta oma looma temperatuuri ja kohe seejärel salvestada hinnangu.
+Tegevuste ahel võimaldab automaatselt sooritada mitmeid tegevusi looma jaoks üksteise järel. Näiteks võite valida tegevused `{{<T "Temperature" >}}` ja `{{<T "Rating" >}}`. Kui te seejärel tegevuste ahelat rakendate, saate esmalt mõõta oma looma temperatuuri ja kohe seejärel salvestada hinnangu.
 
 ### Tegevuste ahela kasutamine {#use-chain-of-actions}
 
-1. Oma VitalControl seadme põhiekraanil valige menüüpunkt &nbsp;<img src="/icons/actions/action-chain.svg" width="35" align="bottom" alt="Tegevuste ahel" />&nbsp; `Tegevuste ahel` ja vajutage `OK` nuppu.
+1. Oma VitalControl seadme põhiekraanil valige menüüpunkt &nbsp;<img src="/icons/actions/action-chain.svg" width="35" align="bottom" alt="Tegevuste ahel" />&nbsp; `{{<T "ActionChain" >}}` ja vajutage `{{<T "Ok" >}}` nuppu.
 
-2. Skaneerige loom transponderi abil või kinnitage valik `OK`-ga ja kasutage nooleklahve △ ▽ ◁ ▷ soovitud looma ID sisestamiseks.
+2. Skaneerige loom transponderi abil või kinnitage valik `{{<T "Ok" >}}`-ga ja kasutage nooleklahve △ ▽ ◁ ▷ soovitud looma ID sisestamiseks.
 
 3. Tegevuste ahel viiakse nüüd täide. Niipea kui kõik tegevuste ahelas olevad tegevused on sooritatud, saab kohe valida järgmise looma.
 
@@ -35,13 +35,13 @@ Tegevuste ahel võimaldab automaatselt sooritada mitmeid tegevusi looma jaoks ü
 
 ### Tegevuste ahela seadistamine {#set-chain-of-actions}
 
-1. Oma VitalControl seadme põhiekraanil valige menüüpunkt &nbsp;<img src="/icons/actions/action-chain.svg" width="35" align="bottom" alt="Tegevuste ahel" />&nbsp; `Tegevuste ahel` ja vajutage `OK` nuppu.
+1. Oma VitalControl seadme põhiekraanil valige menüüpunkt &nbsp;<img src="/icons/actions/action-chain.svg" width="35" align="bottom" alt="Tegevuste ahel" />&nbsp; `{{<T "ActionChain" >}}` ja vajutage `{{<T "Ok" >}}` nuppu.
 
-2. Kasutage nuppu `F2` &nbsp;<img src="/icons/gear.svg" width="25" align="bottom" alt="Tegevuste ahel" />&nbsp; (`seaded`).
+2. Kasutage nuppu `F2` &nbsp;<img src="/icons/gear.svg" width="25" align="bottom" alt="Tegevuste ahel" />&nbsp; (`{{<T "Settings" >}}`).
 
 3. Ilmub ülekatte ekraan. Kasutage nooleklahve △ ▽ loetletud tegevuste 1 - 4 vahel valimiseks (saate järjest sooritada kuni neli tegevust). Kasutage nooleklahve ◁ ▷ soovitud tegevuse valimiseks vastava tegevuse jaoks. Salvestage seaded klahviga `F1` &nbsp;<img src="/icons/footer/save_exit.svg" width="65" align="bottom" alt="Salvesta ja naase" />&nbsp;.
 
-4. Kui soovite kogu tegevuste ahela lähtestada, valige alammenüüst suvand `Reset chain of actions`, kasutades nooleklahve △ ▽ ja kinnitage valikuga `OK`.
+4. Kui soovite kogu tegevuste ahela lähtestada, valige alammenüüst suvand `{{<T "ResetActionChain" >}}`, kasutades nooleklahve △ ▽ ja kinnitage valikuga `{{<T "Ok" >}}`.
 
     ![VitalControl: Menüü tegevuste ahel](images/setchainofactions.png "Seadista tegevuste ahel")
 
